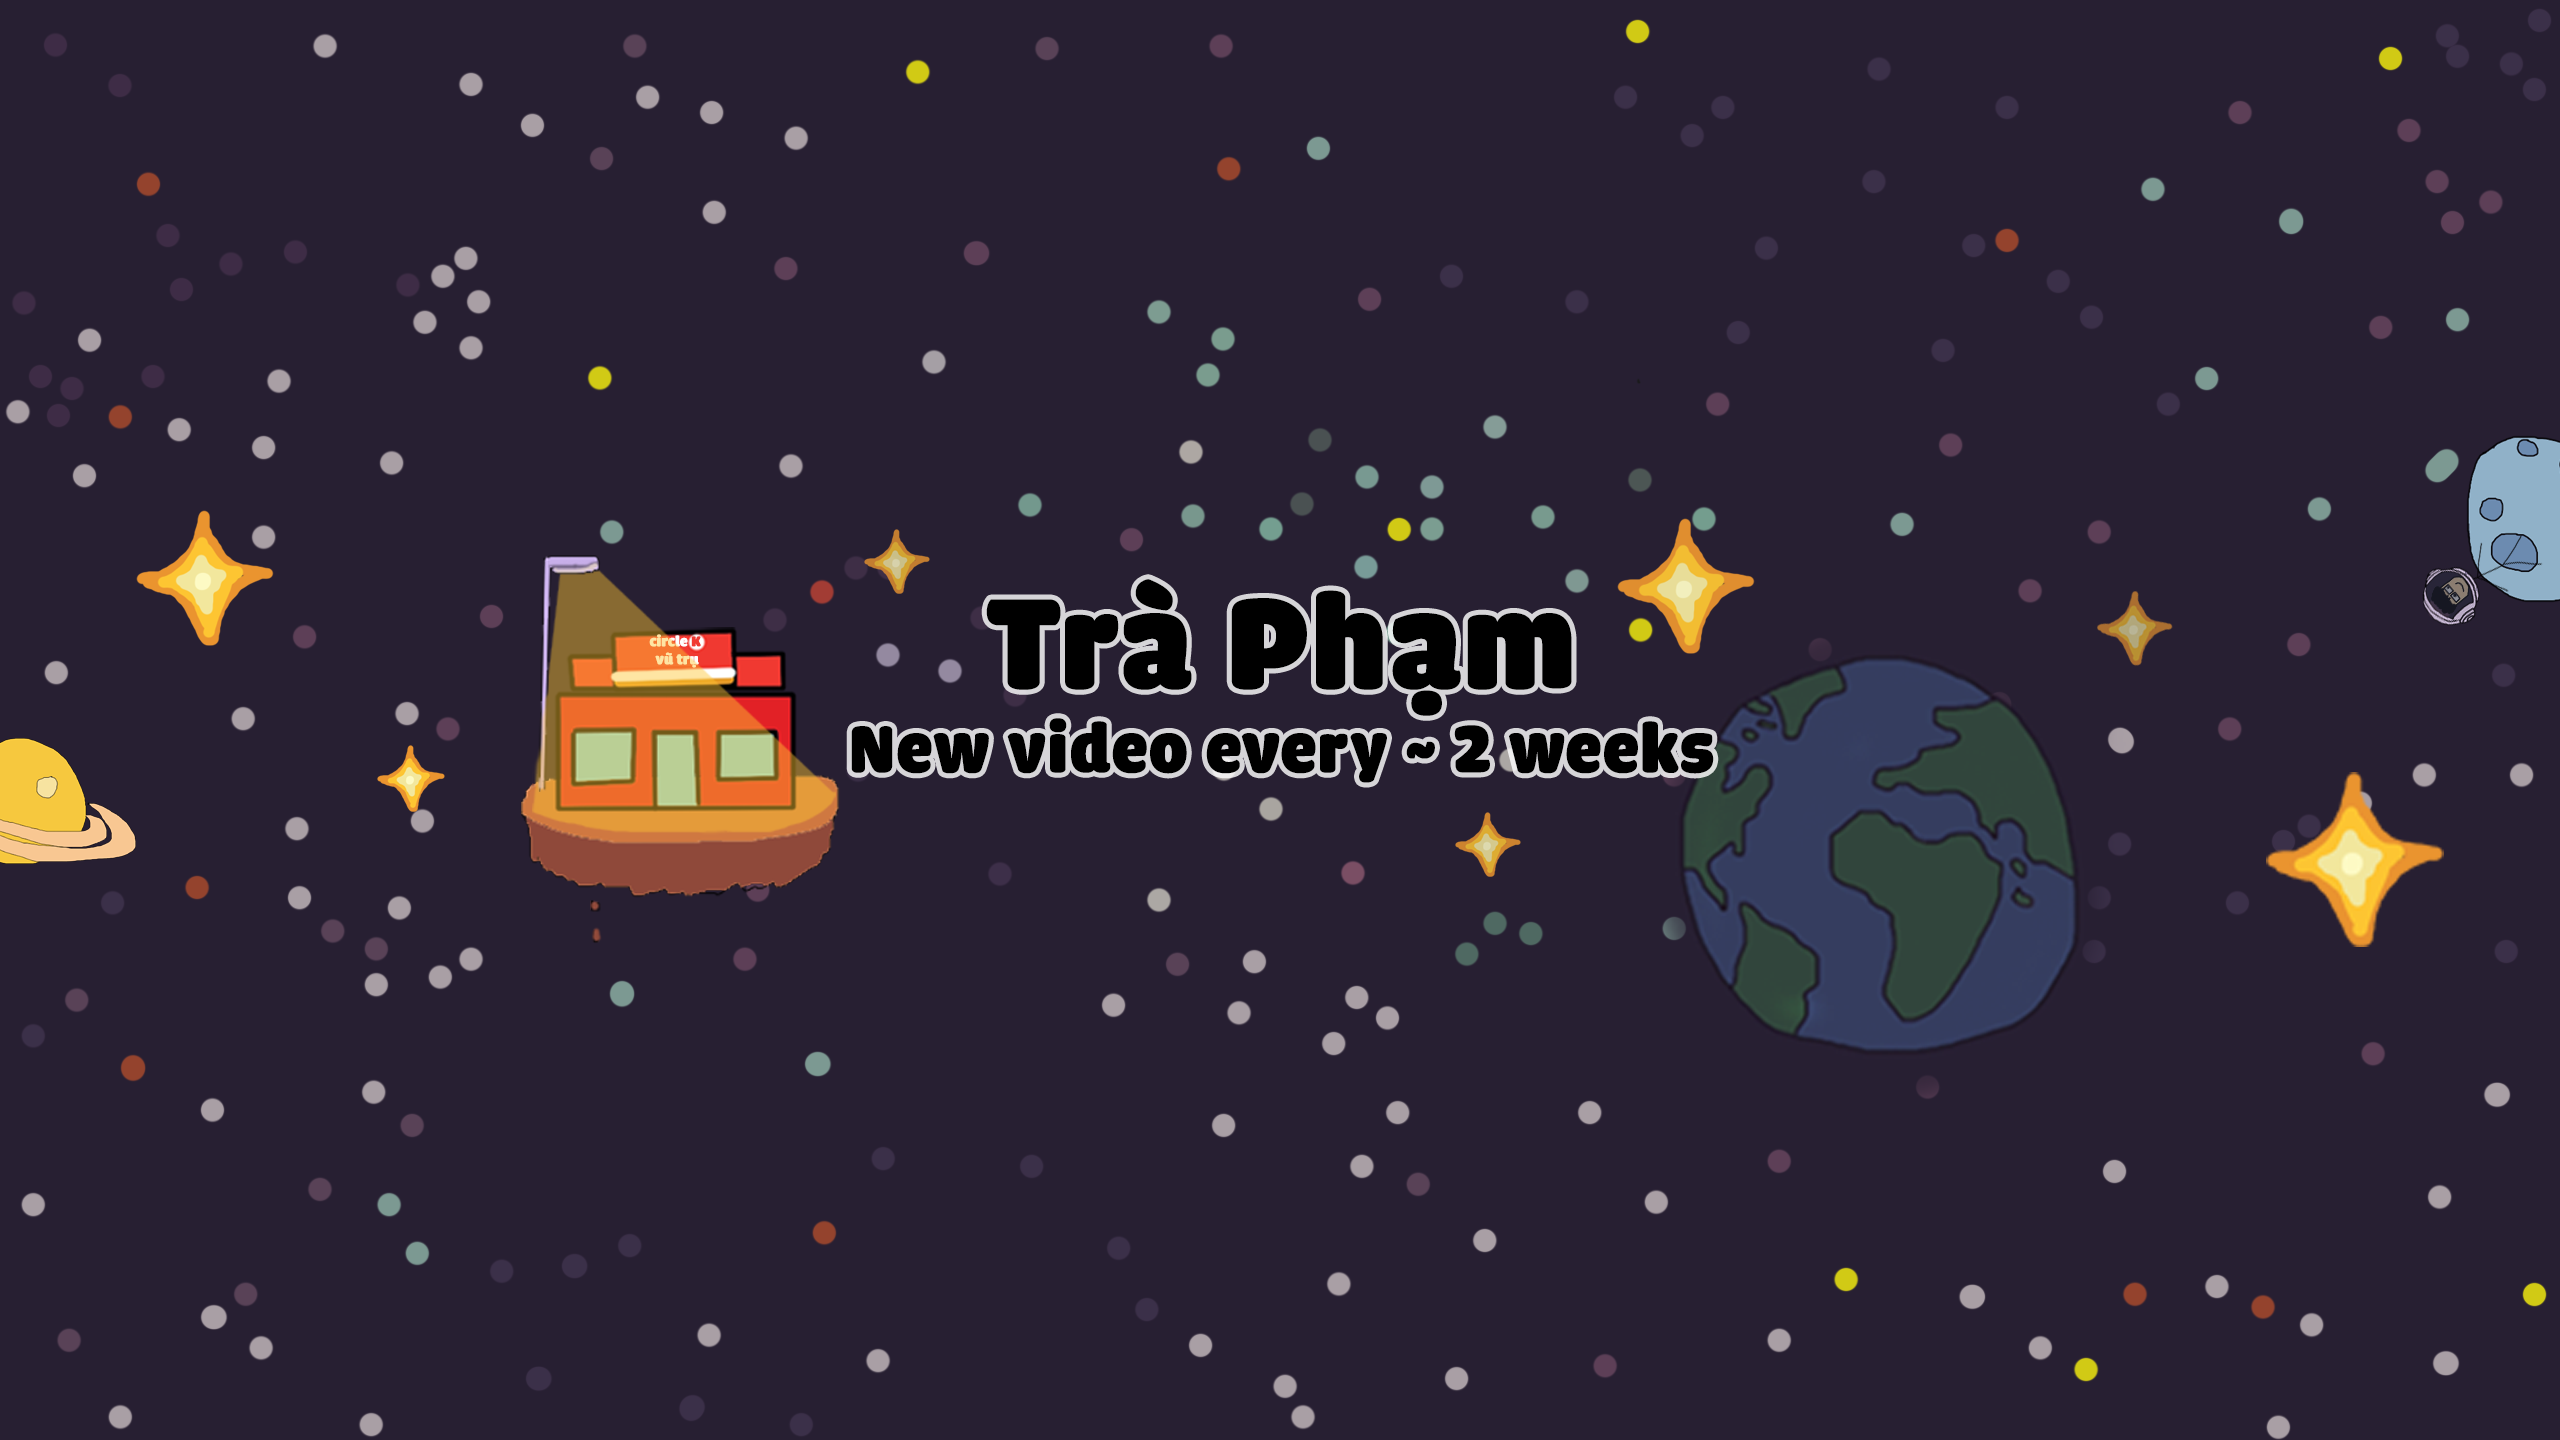
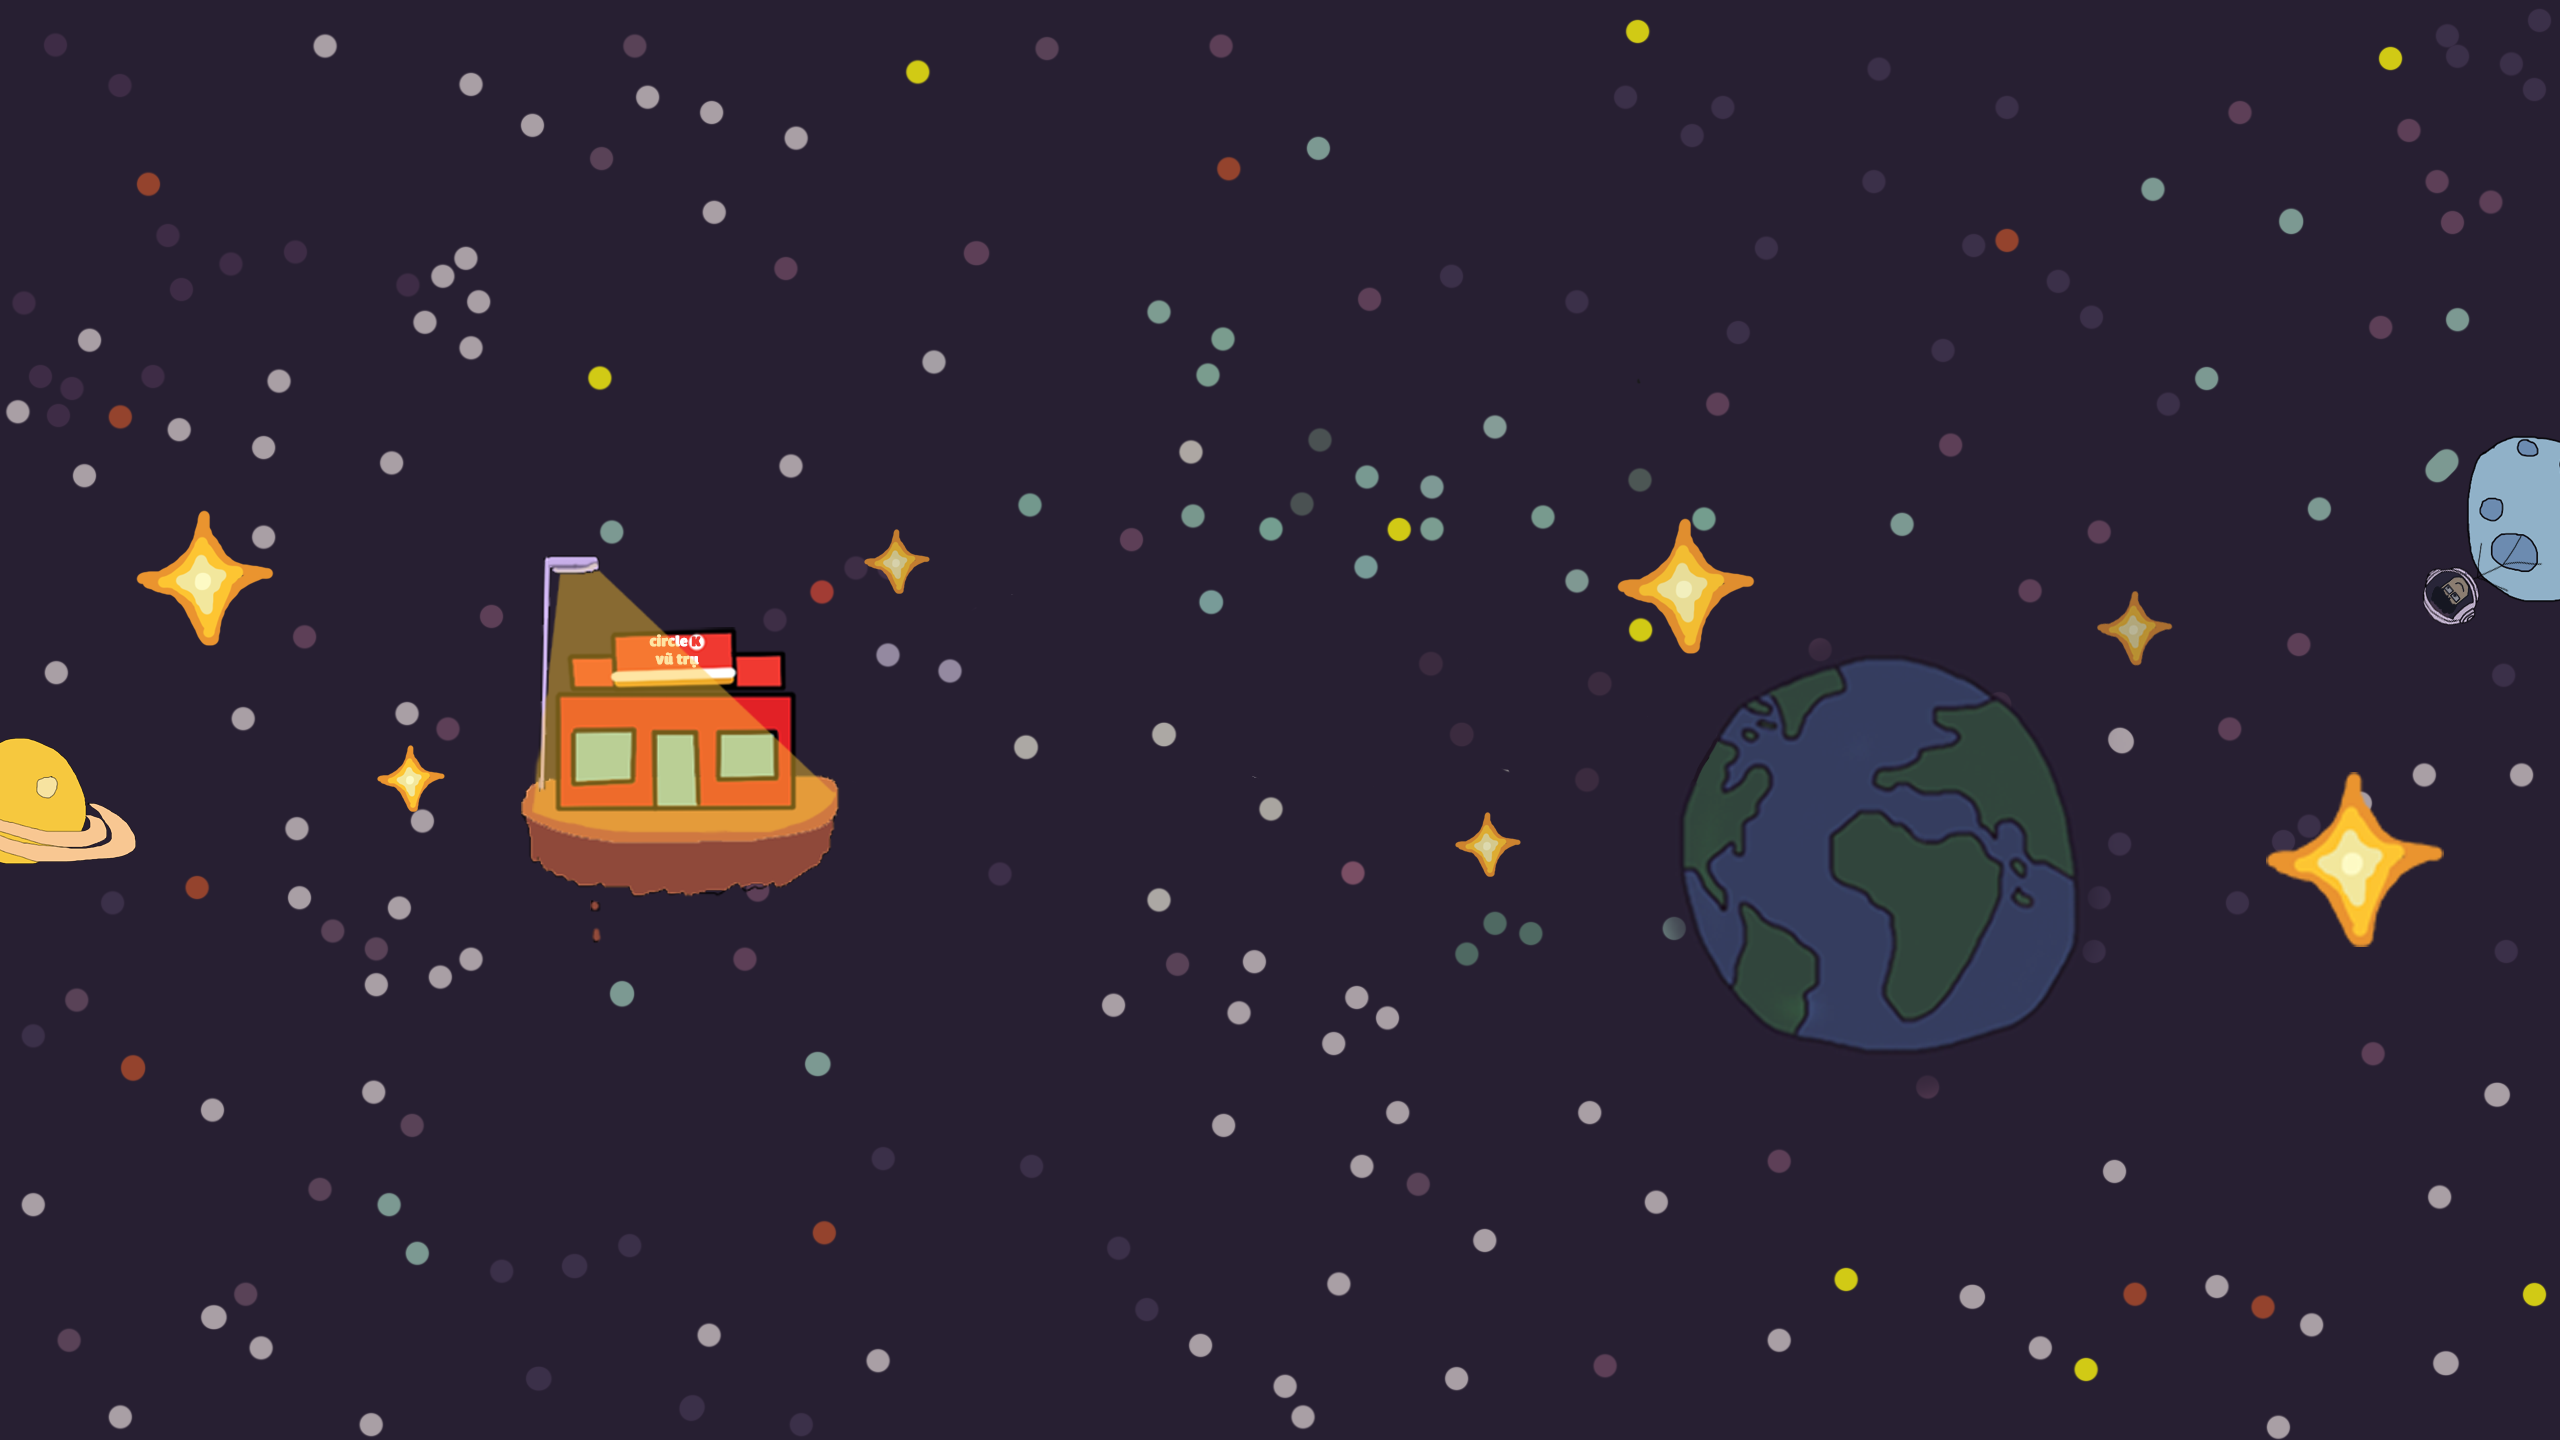
Add skills and about

Changed region(s): [[0.3125, 0.4062, 0.6875, 0.5625]]

diff --git a/src/Components/About/About.jsx b/src/Components/About/About.jsx
@@ -1,0 +1,39 @@
+import React from "react";
+import "./About.css";
+import about from "../../assets/about.png";
+import play_icon from "../../assets/play-icon.png";
+
+const About = () => {
+  return (
+    <div className="about">
+      <div className="about-left">
+        <img src={about} alt="" className="about-img" />
+        <img src={play_icon} alt="" className="play-icon" />
+      </div>
+      <div className="about-right">
+        <h3>About Tra Pham</h3>
+        <h2>Random paragraph</h2>
+        <p>
+          Generating random paragraphs can be an excellent way for writers to
+          get their creative flow going at the beginning of the day. The writer
+          has no idea what topic the random paragraph will be about when it
+          appears. This forces the writer to use creativity to complete one of
+          three common writing challenges.
+        </p>
+        <p>
+          The writer can use the paragraph as the first one of a short story and
+          build upon it. A second option is to use the random paragraph
+          somewhere in a short story they create.{" "}
+        </p>
+        <p>
+          The third option is to have the random paragraph be the ending
+          paragraph in a short story. No matter which of these challenges is
+          undertaken, the writer is forced to use creativity to incorporate the
+          paragraph into their writing.
+        </p>
+      </div>
+    </div>
+  );
+};
+
+export default About;

diff --git a/src/Components/Website/Website.jsx b/src/Components/Website/Website.jsx
@@ -1,0 +1,30 @@
+import React from "react";
+import "./Website.css";
+import web_1 from "../../assets/leaf1.jpg";
+import web_2 from "../../assets/leaf2.jpg";
+import front_end from "../../assets/front-end.png";
+import back_end from "../../assets/computer.png";
+
+const Website = () => {
+  return (
+    <div className="websites ">
+      <div className="website">
+        <img src={web_1} />
+        <div className="caption">
+          <img src={front_end} alt="" />
+          <p>Frontend</p>
+        </div>
+      </div>
+
+      <div className="website">
+        <img src={web_2} />
+        <div className="caption">
+          <img src={back_end} alt="" />
+          <p>Backend</p>
+        </div>
+      </div>
+    </div>
+  );
+};
+
+export default Website;

diff --git a/src/Components/Website/Website.css b/src/Components/Website/Website.css
@@ -1,0 +1,46 @@
+.websites {
+  margin: 80px auto;
+  width: 90%;
+  display: flex;
+  align-items: center;
+  justify-content: space-between;
+}
+
+.website img {
+  width: 100%;
+  border-radius: 10px;
+  display: block;
+}
+
+.website {
+  flex-basis: 48%;
+  position: relative;
+}
+.caption {
+  border-radius: 10px;
+  position: absolute;
+  top: 0;
+  left: 0;
+  right: 0;
+  bottom: 0;
+  background: rgba(255, 255, 255, 0.3);
+  display: flex;
+  align-items: center;
+  justify-content: center;
+  flex-direction: column;
+  color: black;
+  cursor: pointer;
+  opacity: 0;
+  padding-top: 70%;
+  transition: 0.4s;
+}
+
+.caption img {
+  width: 60px;
+  margin-bottom: 10px;
+}
+
+.website:hover .caption {
+  opacity: 1;
+  padding-top: 0;
+}

diff --git a/src/Components/Space/Space.jsx b/src/Components/Space/Space.jsx
@@ -1,8 +1,23 @@
 import React from "react";
 import "./Space.css";
+import dont_care from "../../assets/yamada.png";
 
 const Space = () => {
-  return <div className="Space"></div>;
+  return (
+    <div className="space container">
+      <div className="space-text">
+        <h1>About the website </h1>
+        <p>
+          This is my dumb website, I create it to show-off my react skill with
+          employer. Mấy con gà thì biết cái gì. Do what ever you want, who care?
+          Minotaur là người Lai Châu. Việt Nam vô địch
+        </p>
+        <button className="btn">
+          Fuck You <img src={dont_care}></img>
+        </button>
+      </div>
+    </div>
+  );
 };
 
 export default Space;

diff --git a/src/Components/About/About.css b/src/Components/About/About.css
@@ -1,0 +1,45 @@
+.about {
+  margin: 100px auto;
+  display: flex;
+  align-items: center;
+  justify-content: space-between;
+  width: 90%;
+}
+
+.about-left {
+  flex-basis: 40%;
+  position: relative;
+}
+.about-right {
+  flex-basis: 56%;
+}
+
+.about-img {
+  width: 100%;
+  border-radius: 10px;
+}
+
+.play-icon {
+  width: 60px;
+  position: absolute;
+  top: 50%;
+  left: 50%;
+  transform: translate(-50%, -50%);
+}
+
+.about-right h3 {
+  font-weight: 600;
+  font-weight: 16px;
+  color: #212ea0;
+}
+.about-right h2 {
+  font-size: 35px;
+  color: #000f38;
+  margin: 10px 0;
+  max-width: 400px;
+}
+
+.about p {
+  color: #676767;
+  margin-bottom: 15px;
+}

diff --git a/src/App.jsx b/src/App.jsx
@@ -1,12 +1,21 @@
 import React from "react";
 import Navbar from "./Components/NavBar/Navbar";
 import Space from "./Components/Space/Space";
+import Website from "./Components/Website/Website";
+import Title from "./Components/Title/Title";
+import About from "./Components/About/About";
 
 const App = () => {
   return (
     <div>
       <Navbar />
       <Space />
+
+      <div className="container">
+        <Title title="Website" subtitle="How it make" />
+        <Website />
+        <About />
+      </div>
     </div>
   );
 };

diff --git a/src/Components/Space/Space.css b/src/Components/Space/Space.css
@@ -1,4 +1,4 @@
-.Space {
+.space {
   width: 100%;
   min-height: 100vh;
   background: linear-gradient(rgba(8, 0, 58, 0.5), rgba(8, 0, 58, 0.5)),
@@ -6,4 +6,23 @@
   background-size: cover;
   background-position: center;
   color: #fff;
+  display: flex;
+  align-items: center;
+  justify-content: center;
+}
+
+.space-text {
+  text-align: center;
+  max-width: 800px;
+}
+
+.space-text h1 {
+  font-size: 60px;
+  font-weight: 600;
+}
+
+.space-text p {
+  max-width: 700px;
+  margin: 10px auto 20px;
+  line-height: 1.4;
 }

diff --git a/src/Components/Title/Title.css b/src/Components/Title/Title.css
@@ -1,0 +1,15 @@
+.title {
+  text-align: center;
+  color: #212ea0;
+  font-size: 15px;
+  font-weight: 600;
+  text-transform: uppercase;
+  margin: 70px 0 20px;
+}
+
+.title h2 {
+  font-size: 32px;
+  color: #000f38;
+  margin-top: 5px;
+  text-transform: none;
+}

diff --git a/src/Components/Title/Title.jsx b/src/Components/Title/Title.jsx
@@ -1,0 +1,13 @@
+import React from "react";
+import "./Title.css";
+
+const Title = ({ title, subtitle }) => {
+  return (
+    <div className="title">
+      <p>{title}</p>
+      <h2>{subtitle}</h2>
+    </div>
+  );
+};
+
+export default Title;

diff --git a/src/index.css b/src/index.css
@@ -28,4 +28,12 @@ a {
   padding: 14px 25px;
   border-radius: 30px;
   font-size: 16px;
+  display: inline-flex;
+  align-items: center;
+  justify-content: center;
+}
+
+.btn img {
+  width: 20px;
+  margin-left: 10px;
 }
